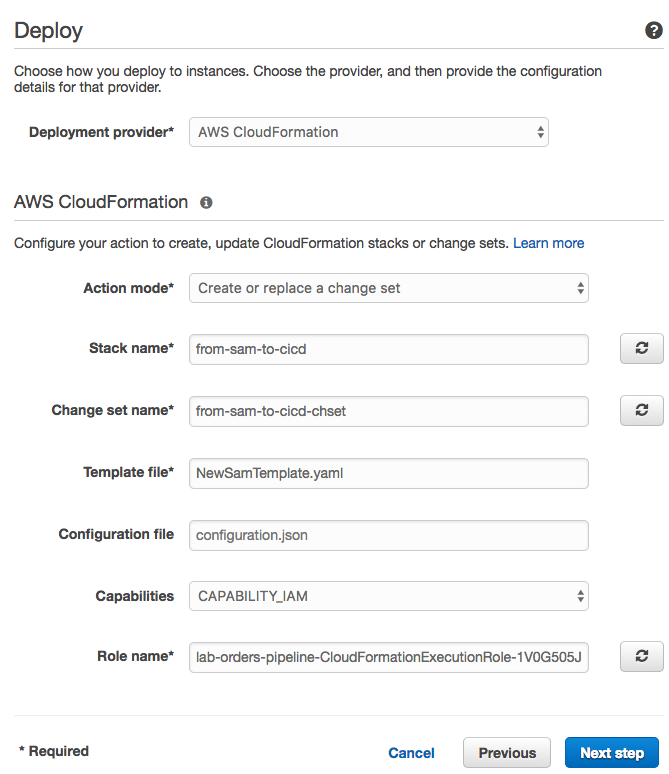
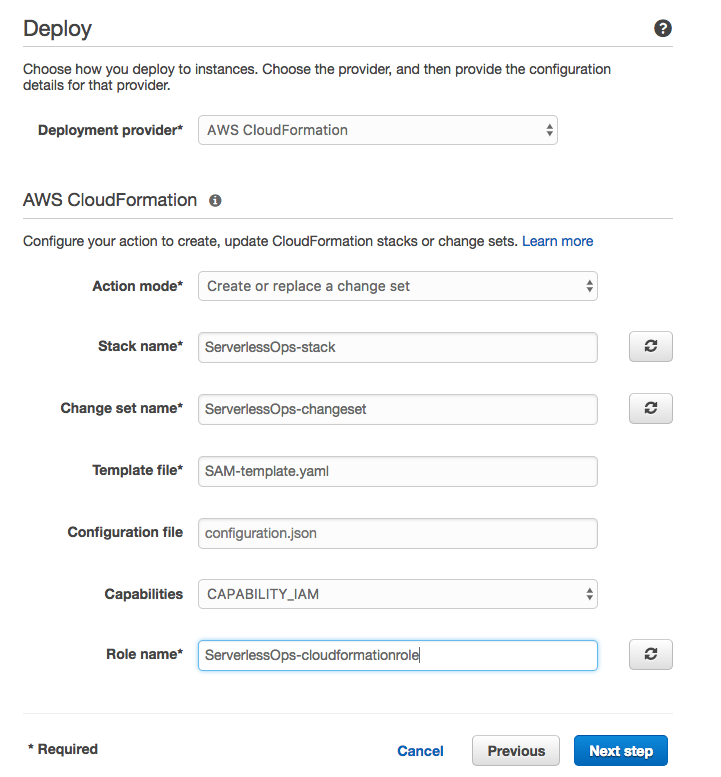
Renewed documentation and frontend

diff --git a/frontend/front-js/assets.js b/frontend/front-js/assets.js
@@ -8,13 +8,15 @@ function include(file)
 include("front-js/jquery.jsontotable.js");
 
 //Modify with the url of the API
-var api = "https://<your-api>.execute-api.us-east-1.amazonaws.com";
-var bucket = "serverless-ops-frontend-<your-alias>";
+//var api = "https://<your-api>.execute-api.us-east-1.amazonaws.com";
+//var bucket = "serverless-ops-frontend-<your-alias>";
 var image = "someguy.jpg";
 
 console.log("loading");
 $(document).ready ( function () {
     $("#trigger").click( function(){
+        var api = $("#endpoint").val();
+        var bucket = $("#bucket").val();
         performRequest(api+"/getinfo",JSON.stringify({ "bucket": bucket,"key": image}) );
     });
 

diff --git a/frontend/index.html b/frontend/index.html
@@ -7,11 +7,16 @@
   </head>
   <body>
       <h1>Display things</h1>
-      <button id="trigger">boton</button>
+      
 
       <div style="margin:10px">
         <div id="foto-holder">
           <img src="assets/someguy.jpg" width="40%"/>
+        </div>
+        <div id="endpoint-holder">
+          Endpoint: <input type="text" id="endpoint" />
+          Bucket name: <input type="text" id="bucket" />
+          <button id="trigger">boton</button>
         </div>
         <div id="place-holder">
           <div id="jsontotable" class="jsontotable"></div>

diff --git a/documentation/3_building_your_ci_cd_pipeline/README.md b/documentation/3_building_your_ci_cd_pipeline/README.md
@@ -118,28 +118,29 @@ In the phase of creating a build project, we select "Create a new build project"
 
 Within the project, the file buildspec.yml has the information necesary for your deployments. If we inspect this file, we will find that the deployment generages a file calles SAM-template.yaml which replaces the "local code" with a file within the S3 bucket previously provided.
 
-1. Name it as *ServerlessOps_build*.
-2. Select *Use an image managed by AWs CodeBuild*.
-3. Chose *Ubuntu* as the Operating system.
-4. Select *Node.js* as the runtime.
-5. Select Version *4.3.2*.
-3. Select *Create a service role in your account*. We will review it after creating the pipeline.
+1. Name it as ```ServerlessOps_build```.
+2. Select ```Use an image managed by AWs CodeBuild```.
+3. Chose ```Ubuntu``` as the Operating system.
+4. Select ```Node.js``` as the runtime.
+5. Select Version ```4.3.2```.
+3. Select ```Chose an existing service role from your account``` and, on that dropdown, select ```ServerlessOps-codebuildrole```. We will review it after creating the pipeline.
 4. Click on *Save build project*
 
 <img src="../images/codepipeline3.png" />
 
 ### Step 3.2.3: Select the deploy phase using CloudFormation.
 
-Click on Next Step once you have created your build project. Altough SAM (behind the scenes) will use CodeDeploy, SAM is based in CloudFormation and the deploy will do it as well.
+Click on *Next Step* once you have created your build project. Altough SAM (behind the scenes) will use CodeDeploy, SAM is based in CloudFormation and the deploy will do it as well.
 
-1. Select *CloudFormation* as the deployment provider.
-2. Chose *Change or replace a change set* as the Action Mode.
-3. Name the Stack **ServerlessOps-stack**
-4. Name the Change set as **ServerlessOps-changeset**
-5. The template file that CodeBuild generates is *SAM-template.yaml*. Set it under Template file.
-6. Select Capabilities *CAPABILITIES_IAM*
-7. This is the role assumed by CloudFormation to deploy your code. For the shake of this training, we will use Administration permissions. Please bare in mind that these permissions should be the ones used by your stack (such as creating an API, Lambda Function, S3...). *Create/use an IAM role for CloudFormation with Administrator permissions*.
-8. In the next step we will *define the role used by CodePipeline* to access resources such as CodeBuild, CodeCommit, S3... If you have created a role previously, you can use it, if not click on Create role. By allowing the default policy, it will create a role called *AWS-CodePipeline-Service*. Then, click *Next Step*.
+1. Select ```CloudFormation``` as the deployment provider.
+2. Chose ```Change or replace a change set``` as the Action Mode.
+3. Name the Stack ```ServerlessOps-stack```
+4. Name the Change set as ```ServerlessOps-changeset```
+5. The template file that CodeBuild generates is ```SAM-template.yaml```. Set it under Template file.
+6. Select Capabilities ```CAPABILITIES_IAM```
+7. Select the role created in *step 1* called ```ServerlessOps-cloudformationrole```.
+8. Click *Next Step*.
+9. In this AWS Service Role, CodePipeline should have permissions to add new stacks to *CloudFormation*, pull code from *CodeCommit*... If you don't have it, click on *Create role* and follow the steps mentioned after it.
 9. Review the configuration and create the pipeline.
 <img src="../images/codepipeline4.png" />
 
@@ -148,9 +149,35 @@ Click on Next Step once you have created your build project. Altough SAM (behind
 
 Go to the **CodePipeline** console and take a look at all the stages flowing. This might take a while but worth seeing!
 
-After everything is in green, does it work? No. you need to go to CloudFormation and Execute the ChangeSet.
+After everything is in green, did it work? Have you deployed a new API? Seems like you haven't!
 
-Let's add this tep to the pipeline
+You need to go to CloudFormation and Execute the ChangeSet.
+
+1. Select the stack *ServerlessOps-stack*. On the down panel, click on *Change sets*. 
+2. Click on the Change Set called *ServerlessOps-changeset*.
+2. On the new page, click on *Execute*. Accept the warning by clicking again, *Execute*.
+
+<img src="../images/cloudformation-execute.png" />
+
+But... This isn't pretty automatic, right? Sometimes, we might want to review all the change set before we proceed but, in this case, we want to have it all automated. To achieve it, let's add a new step to our pipeline!
+
+1. Go to the *CodePipeline* console.
+2. Select *ServelessOps_pipeline* and click *Edit*.
+3. Under the stage *Staging*, click on the pen icon:
+<img src="../images/codepipeline-staging-changeset.png" />
+4. Click on Action and, in the new panel, add *Action category* as ```Deploy```.
+5. Action name, call it ```ExecuteChangeSet```.
+6. Under *Deployment provider*, select *AWS CloudFormation*.
+7. Then, a new panel for CloudFormation will appear. Select Action mode *Execute a change set*, Stack name ```ServerlessOps-stack```and Change set name, ```ServerlessOps-changeset```.
+8. Click on *Add action*.
+9. On top of the page, click *Save pipeline changes*.
+<img src="../images/codepipeline-staging-changeset-2.png" />
+
+Your pipeline should look like this:
+
+<img src="../images/codepipeline-staging-changeset-3.png" />
+
+
 
 ## 3.5. Try again to  push to you pipeline.
 
@@ -212,52 +239,4 @@ git push
 ````
 
 Now it works!
-
-## Step 3: Building the Pipeline!
-
-
-
-##### Note: The *yaml* template - SAM!
-
-The folder with the code has the following tree:
-
-    ├── README.md
-    ├── *buildspec.yml*
-    ├── documentation
-    │   └── images
-    │       └── ...
-    ├── frontend
-    │   ├── assets
-    │   │   └── ...
-    │   ├── front-js
-    │   │   ├── assets.js
-    │   │   └── ...
-    │   ├── *index.html*
-    │   └── ...
-    ├── functions
-    │   ├── getinfo
-    │   │   └── *index.js*
-    │   └── getinfoenhanced
-    │       └── *index.js*
-    ├── old
-    │   └── ...
-    ├── swagger.yaml
-    └── *template.yaml*
-
-The important files here are represented by *name of the file *.
-
-The SAM template is called **template.yaml** and has two resources:
-1. An API
-2. A function
-
-The function has an API method defined in the API as the event trigger. This method is define in the file **swagger.yaml** as well as some other features such as CORS.
-
-During this Lab we will modify the function **"getinfo"** with the code within **"getinfoenhanced"** to demonstrate how can propagate a change within the pipeline and deploy it in a Blue/Green matter.
-
-
-## Step 2.3: Creating the pipeline with CodePipeline
-
-
-
-### Now, go to CloudFormation, execute change set.
 

diff --git a/documentation/1_preparing_environment/README.md b/documentation/1_preparing_environment/README.md
@@ -46,6 +46,16 @@ uri: arn:aws:apigateway:<region>:lambda:path/2015-03-31/functions/arn:aws:lambda
 
 Here you have to change `<region>` and `<AccountId>`with the region you're deploying in and the account Id you are using.
 
-## Step X: Preparing the field:
+## 1.4. Upload your web page
+
+During the course of this workshop we will use this web page as the application we will be changing over time. In this case, upload all the content under *frontend* to the S3 bucket created by **step 1.1.1**. 
+
+You can use this command once you are within the *frontend* folder:
+
+```bash
+aws s3 cp . s3://ServerlessOps-step0-stack-serverlessopsfrontend-<random-string>
+```
+
+Of course, you need to change <random-string> with your actual bucket.
 
 Once you have finished this step you can start the second step [here](../../documentation/2_develop_with_cloud9).
